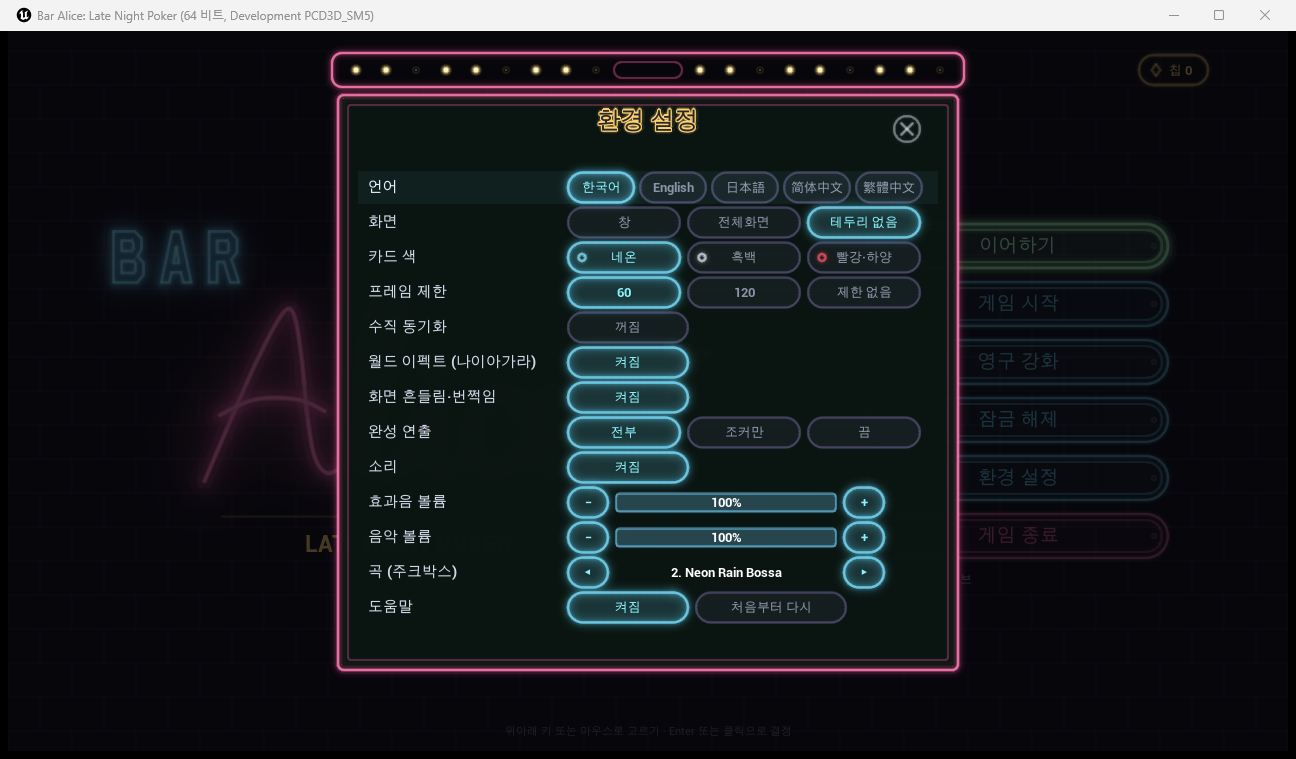
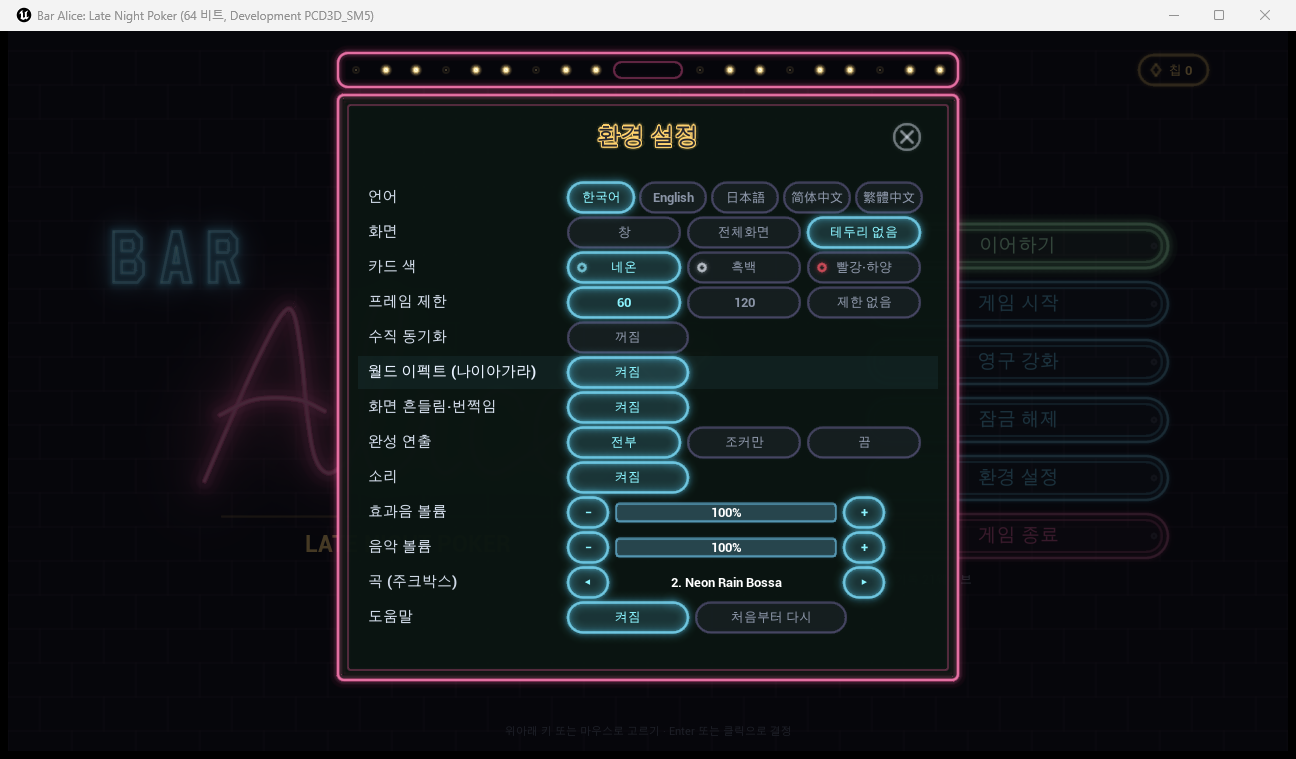
환경 설정 칠판: 전구 가로대 너비 맞춤, 제목을 X 와 같은 높이로, 줄 10 내림 (D-394)

Changed region(s): [[0.2469, 0.1212, 0.7407, 0.9091], [0.7099, 0.0606, 0.7716, 0.1212], [0.2469, 0.0606, 0.2778, 0.1212]]

diff --git a/Source/ProjectB/PDBoardDraw.h b/Source/ProjectB/PDBoardDraw.h
@@ -748,11 +748,11 @@ inline const TCHAR* MenuItemName(int I)
 // 설정 창 (D-110): 줄마다 이름 + 버튼
 enum class ESetRow : uint8_t { Lang, Window, CardTheme, Frame, VSync, WorldFx, Shake, Cine, Sound, Volume, Music, Track, Help, Count }; // 닫기 줄은 뺐다 → 오른쪽 위 ⓧ 버튼 (D-384) // Track: 주크박스 곡 ◀ 이름 ▶ (D-319) // Cine: 완성 연출 전부/조커만/끔 (D-314) // Help: 도움말 켜기·처음부터 (D-217)
 constexpr float SetW = 560.f, SetRowH = 33.f, SetRowGap = 2.f, SetLabelW = 200.f, SetBtnH = 30.f;
-constexpr float SetX = DesignW / 2.f - SetW / 2.f, SetY0 = 140.f; // 언어 줄이 늘어 조금 위로 (D-159)
-constexpr float SetBoxX = SetX - 30.f, SetBoxY = SetY0 - 91.f, SetBoxW = SetW + 60.f; // 위로 15 늘림 (D-392, 예전 SetY0 - 76)
-constexpr float SetBoxH = (int)ESetRow::Count * (SetRowH + SetRowGap) + 135.f;
+constexpr float SetX = DesignW / 2.f - SetW / 2.f, SetY0 = 150.f; // 언어 줄이 늘어 조금 위로 (D-159) → 제목과 첫 줄 사이를 띄우려 10 내림 (D-394)
+constexpr float SetBoxX = SetX - 30.f, SetBoxY = SetY0 - 101.f, SetBoxW = SetW + 60.f; // 위로 15 늘림 (D-392), 창 윗변은 49 그대로 (D-394)
+constexpr float SetBoxH = (int)ESetRow::Count * (SetRowH + SetRowGap) + 145.f;
 inline float SetRowY(int Row) { return SetY0 + Row * (SetRowH + SetRowGap); }
-constexpr float SetCloseR = 13.f, SetCloseCX = SetX + SetLabelW + 352.f - SetCloseR, SetCloseCY = SetBoxY + 49.f; // 닫기 ⓧ (D-384): 아치 어깨 바로 아래, 언어 줄 위. 오른쪽 끝을 선택지 버튼 열 오른쪽 끝(X0 + 352)에 맞춤 (D-387)
+constexpr float SetCloseR = 13.f, SetCloseCX = SetX + SetLabelW + 352.f - SetCloseR, SetCloseCY = SetBoxY + 57.f; /* D-394: 칠판 윗변(SetBoxY + 15) + 42, 제목과 같은 높이 */ // 닫기 ⓧ (D-384): 아치 어깨 바로 아래, 언어 줄 위. 오른쪽 끝을 선택지 버튼 열 오른쪽 끝(X0 + 352)에 맞춤 (D-387)
 inline bool SetBarRow(int Row) { return Row == (int)ESetRow::Volume || Row == (int)ESetRow::Music; } // −/막대/+ 줄
 inline int SetBtnCount(int Row) { return Row == (int)ESetRow::Lang ? (int)EPDLang::Count : Row == (int)ESetRow::Window || Row == (int)ESetRow::CardTheme || Row == (int)ESetRow::Frame || Row == (int)ESetRow::Cine || Row == (int)ESetRow::Track || SetBarRow(Row) ? 3 : Row == (int)ESetRow::Help ? 2 : 1; }
 inline FLinearColor LevelDotColor() { return GPDCardTheme == 1 ? FLinearColor::White : Hex(TEXT("ffd96a")); } // 타워 레벨 점 (흑백이면 흰빛)

diff --git a/Source/ProjectB/PDBoardPaint.cpp b/Source/ProjectB/PDBoardPaint.cpp
@@ -4002,8 +4002,8 @@ void SPDBoardWidget::PaintSettings(FCanvas& C) const
 		C.Lines(Bo, FLinearColor(1.f, 1.f, 1.f, 0.3f), 0.6f);
 		C.Glow(FCanvas::RoundRectPoints(X0 + 10.f, BoardY + 10.f, X1 - X0 - 20.f, Bot - BoardY - 20.f, 3.f), WithAlpha(PinkS, 0.6f), 1.f, 0.35f);
 		// 위 가로대: 손잡이 구멍 + 양쪽 전구 줄
-		C.Box(X0 - 6.f, BarY, X1 - X0 + 12.f, BarH, Hex(TEXT("06060b"), 0.97f));
-		const TArray<FVector2f> Ba = FCanvas::RoundRectPoints(X0 - 6.f, BarY, X1 - X0 + 12.f, BarH, 10.f);
+		C.Box(X0, BarY, X1 - X0, BarH, Hex(TEXT("06060b"), 0.97f)); // 칠판과 같은 너비 (D-394)
+		const TArray<FVector2f> Ba = FCanvas::RoundRectPoints(X0, BarY, X1 - X0, BarH, 10.f);
 		C.Glow(Ba, PinkS, 2.2f, 0.9f);
 		C.Lines(Ba, FLinearColor(1.f, 1.f, 1.f, 0.3f), 0.6f);
 		C.Glow(FCanvas::RoundRectPoints(MidX - 34.f, BarY + 9.f, 68.f, 16.f, 8.f), WithAlpha(PinkS, 0.7f), 1.f, 0.4f); // 손잡이 구멍
@@ -4014,7 +4014,7 @@ void SPDBoardWidget::PaintSettings(FCanvas& C) const
 				const float Xa = Side ? MidX + 52.f : X0 + 18.f, Xb = Side ? X1 - 18.f : MidX - 52.f;
 				Bulb(C, FVector2f(FMath::Lerp(Xa, Xb, K / 8.f), BarY + BarH / 2.f), 3.f, (K + Side * 9 + Ph) % 3 != 0, Hex(TEXT("ffe196"))); // 동그란 전구 (D-294)
 			}
-		NeonText(C, Tr(TEXT("환경 설정")), MidX, BoardY + 34.f, Hex(TEXT("ffd26e")), 24.f, 1, 1.f); // 칠판 맨 위 제목 (D-384 간판 글자)
+		NeonText(C, Tr(TEXT("환경 설정")), MidX, SetCloseCY + 8.f, Hex(TEXT("ffd26e")), 24.f, 1, 1.f); // 칠판 맨 위 제목: 닫기 ⓧ 와 같은 높이 (D-394, 기준선 = 가운데 + 8)
 		// 닫기 ⓧ (D-384): 맨 아래 '닫기' 줄 대신. 동그라미 안 X, 마우스 올림 = 같은 색 밝게
 		C.CloseX(FVector2f(SetCloseCX, SetCloseCY), SetCloseR, FVector2f::Distance(Mouse, FVector2f(SetCloseCX, SetCloseCY)) <= SetCloseR + 4.f); // 공통 ⓧ (D-388)
 	}

diff --git a/docs/05-decision-log.md b/docs/05-decision-log.md
@@ -398,3 +398,4 @@
 | D-391 | 2026-11-17 | 닫기 ⓧ 버튼(설정 · 스킬 트리 · 도감 · 잠금 해제 · 영구 강화 공통 CloseX)을 하늘색 → 흰색 네온으로 (평소 흰빛 72%, 마우스 올림 = 흰색 + 빛 판). 닫기는 어느 창 색과도 겹치지 않는 중립 색 | 사용자: 닫기 버튼을 흰색 네온으로 | 기본 하늘색 그대로 |
 | D-392 | 2026-11-17 | 환경 설정 창을 위로 15 늘림 (창 윗변 SetY0 - 76 → - 91, 높이 +15). 간판 글자 · 닫기 ⓧ 는 윗변을 따라 같이 올라가고 줄 자리는 그대로. 닫기 ⓧ 는 앞서 3 올림(윗변 + 52 → + 49) | 사용자: X 버튼 3픽셀 위로 · 창 위로 15픽셀 늘려줘 | 그대로 둠 |
 | D-393 | 2026-11-17 | **환경 설정 창 = 세워 둔 칠판 간판** (시안 tools/neon/settings_board_mock.py B, docs/images/settings-1117): 주크박스 아치(D-293)를 걷고, 위에 손잡이 구멍이 뚫린 가로대(핫핑크 테 + 전구 9개씩 두 줄, 꺼진 전구가 돌아감) + 아래 핫핑크 두 겹 테 칠판(아주 어두운 초록 바탕 0a1511). 시안의 양옆 벌어진 다리 · 버팀대 · 분필 받침 같은 아래 선은 사용자 요청으로 뺌. 줄 배치 · 선택지 색 · 흰 닫기 ⓧ 는 그대로, 제목 "환경 설정" 은 칠판 맨 위. 화면 확인용 시험 스위치 -pdsettings (쉬핑 제외, 시작하면 설정 창이 열린 채) | 사용자: 전구 · 배치 · 색은 유지하고 네모나게, 세워 놓는 칠판 메뉴판 느낌 → 2번 시안, 양옆 사선 · 밑 선 지우기 | A 네모 창, 다리 있는 입간판 |
+| D-394 | 2026-11-17 | 환경 설정 칠판 간판 다듬기: 위 전구 가로대를 칠판과 같은 너비로, 제목 "환경 설정" 을 내려 닫기 ⓧ 와 같은 높이(칠판 윗변 + 42)에 나란히, 제목과 첫 줄 사이를 띄우려 줄 전체를 10 내리고 창 높이 +10 (SetY0 140 → 150, 창 윗변 49 그대로) | 사용자: 전구 박스 아래와 크기 맞추기 · 제목 너무 위, 내리고 X 와 정렬 · 공간 부족하면 늘려도 됨 | 그대로 둠 |
